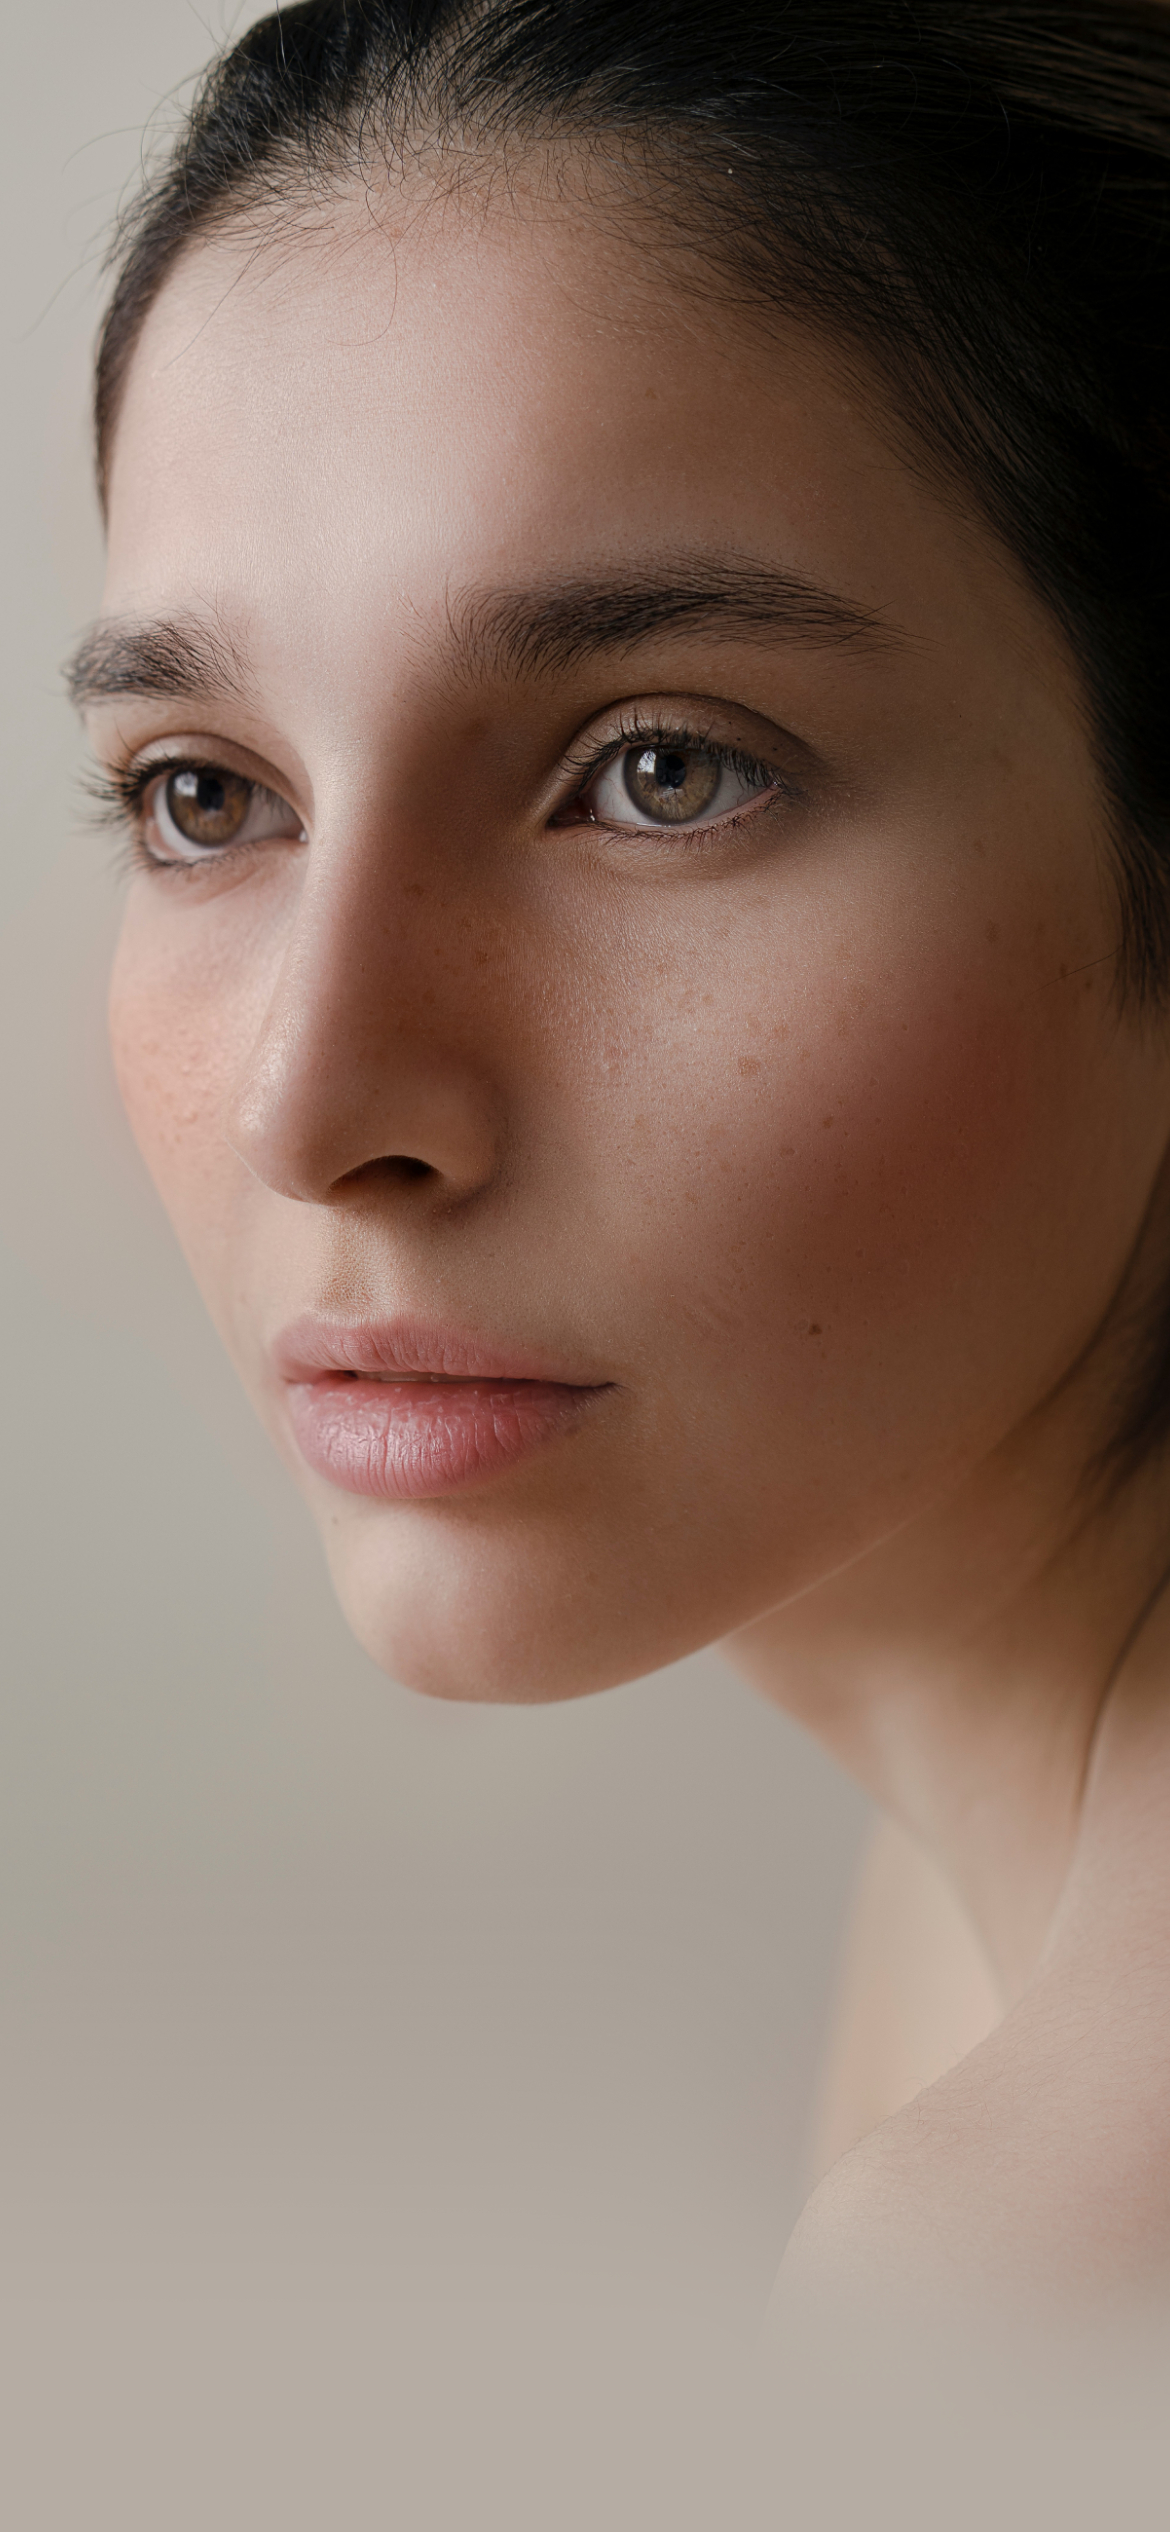
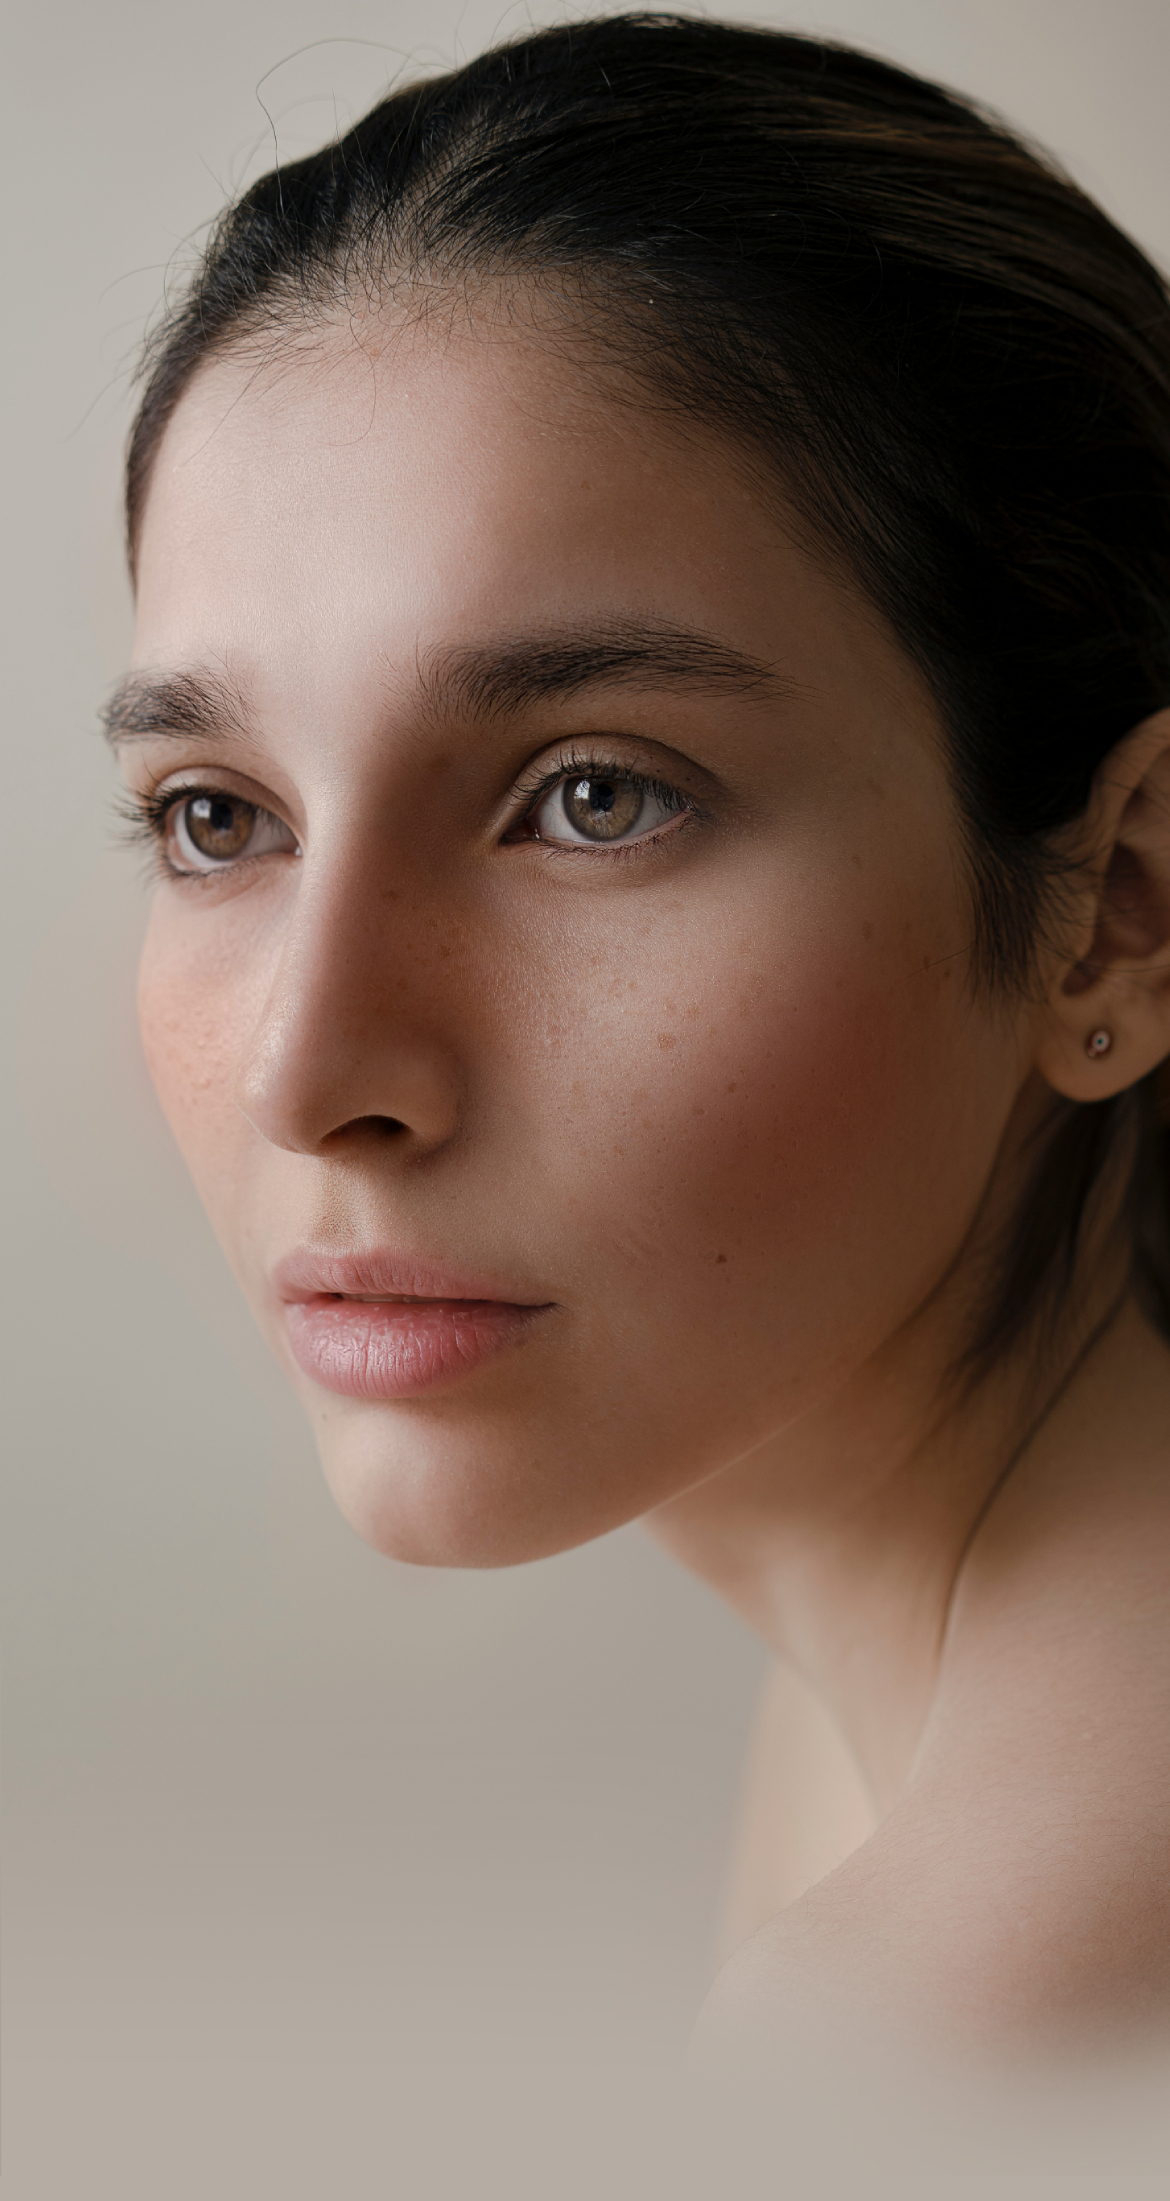
Update hero image portrait dimensions

diff --git a/frontend/app/components/hero/section.tsx b/frontend/app/components/hero/section.tsx
@@ -32,7 +32,7 @@ const FORM_POSITIONS = {
 
 const IMAGE_DIMENSIONS = {
 	landscape: { width: 3200, height: 2883 },
-	portrait: { width: 1170, height: 2532 },
+	portrait: { width: 1170, height: 2201 },
 } as const;
 
 const animateSplitTextOut = (element: HTMLElement, onComplete?: () => void) => {
